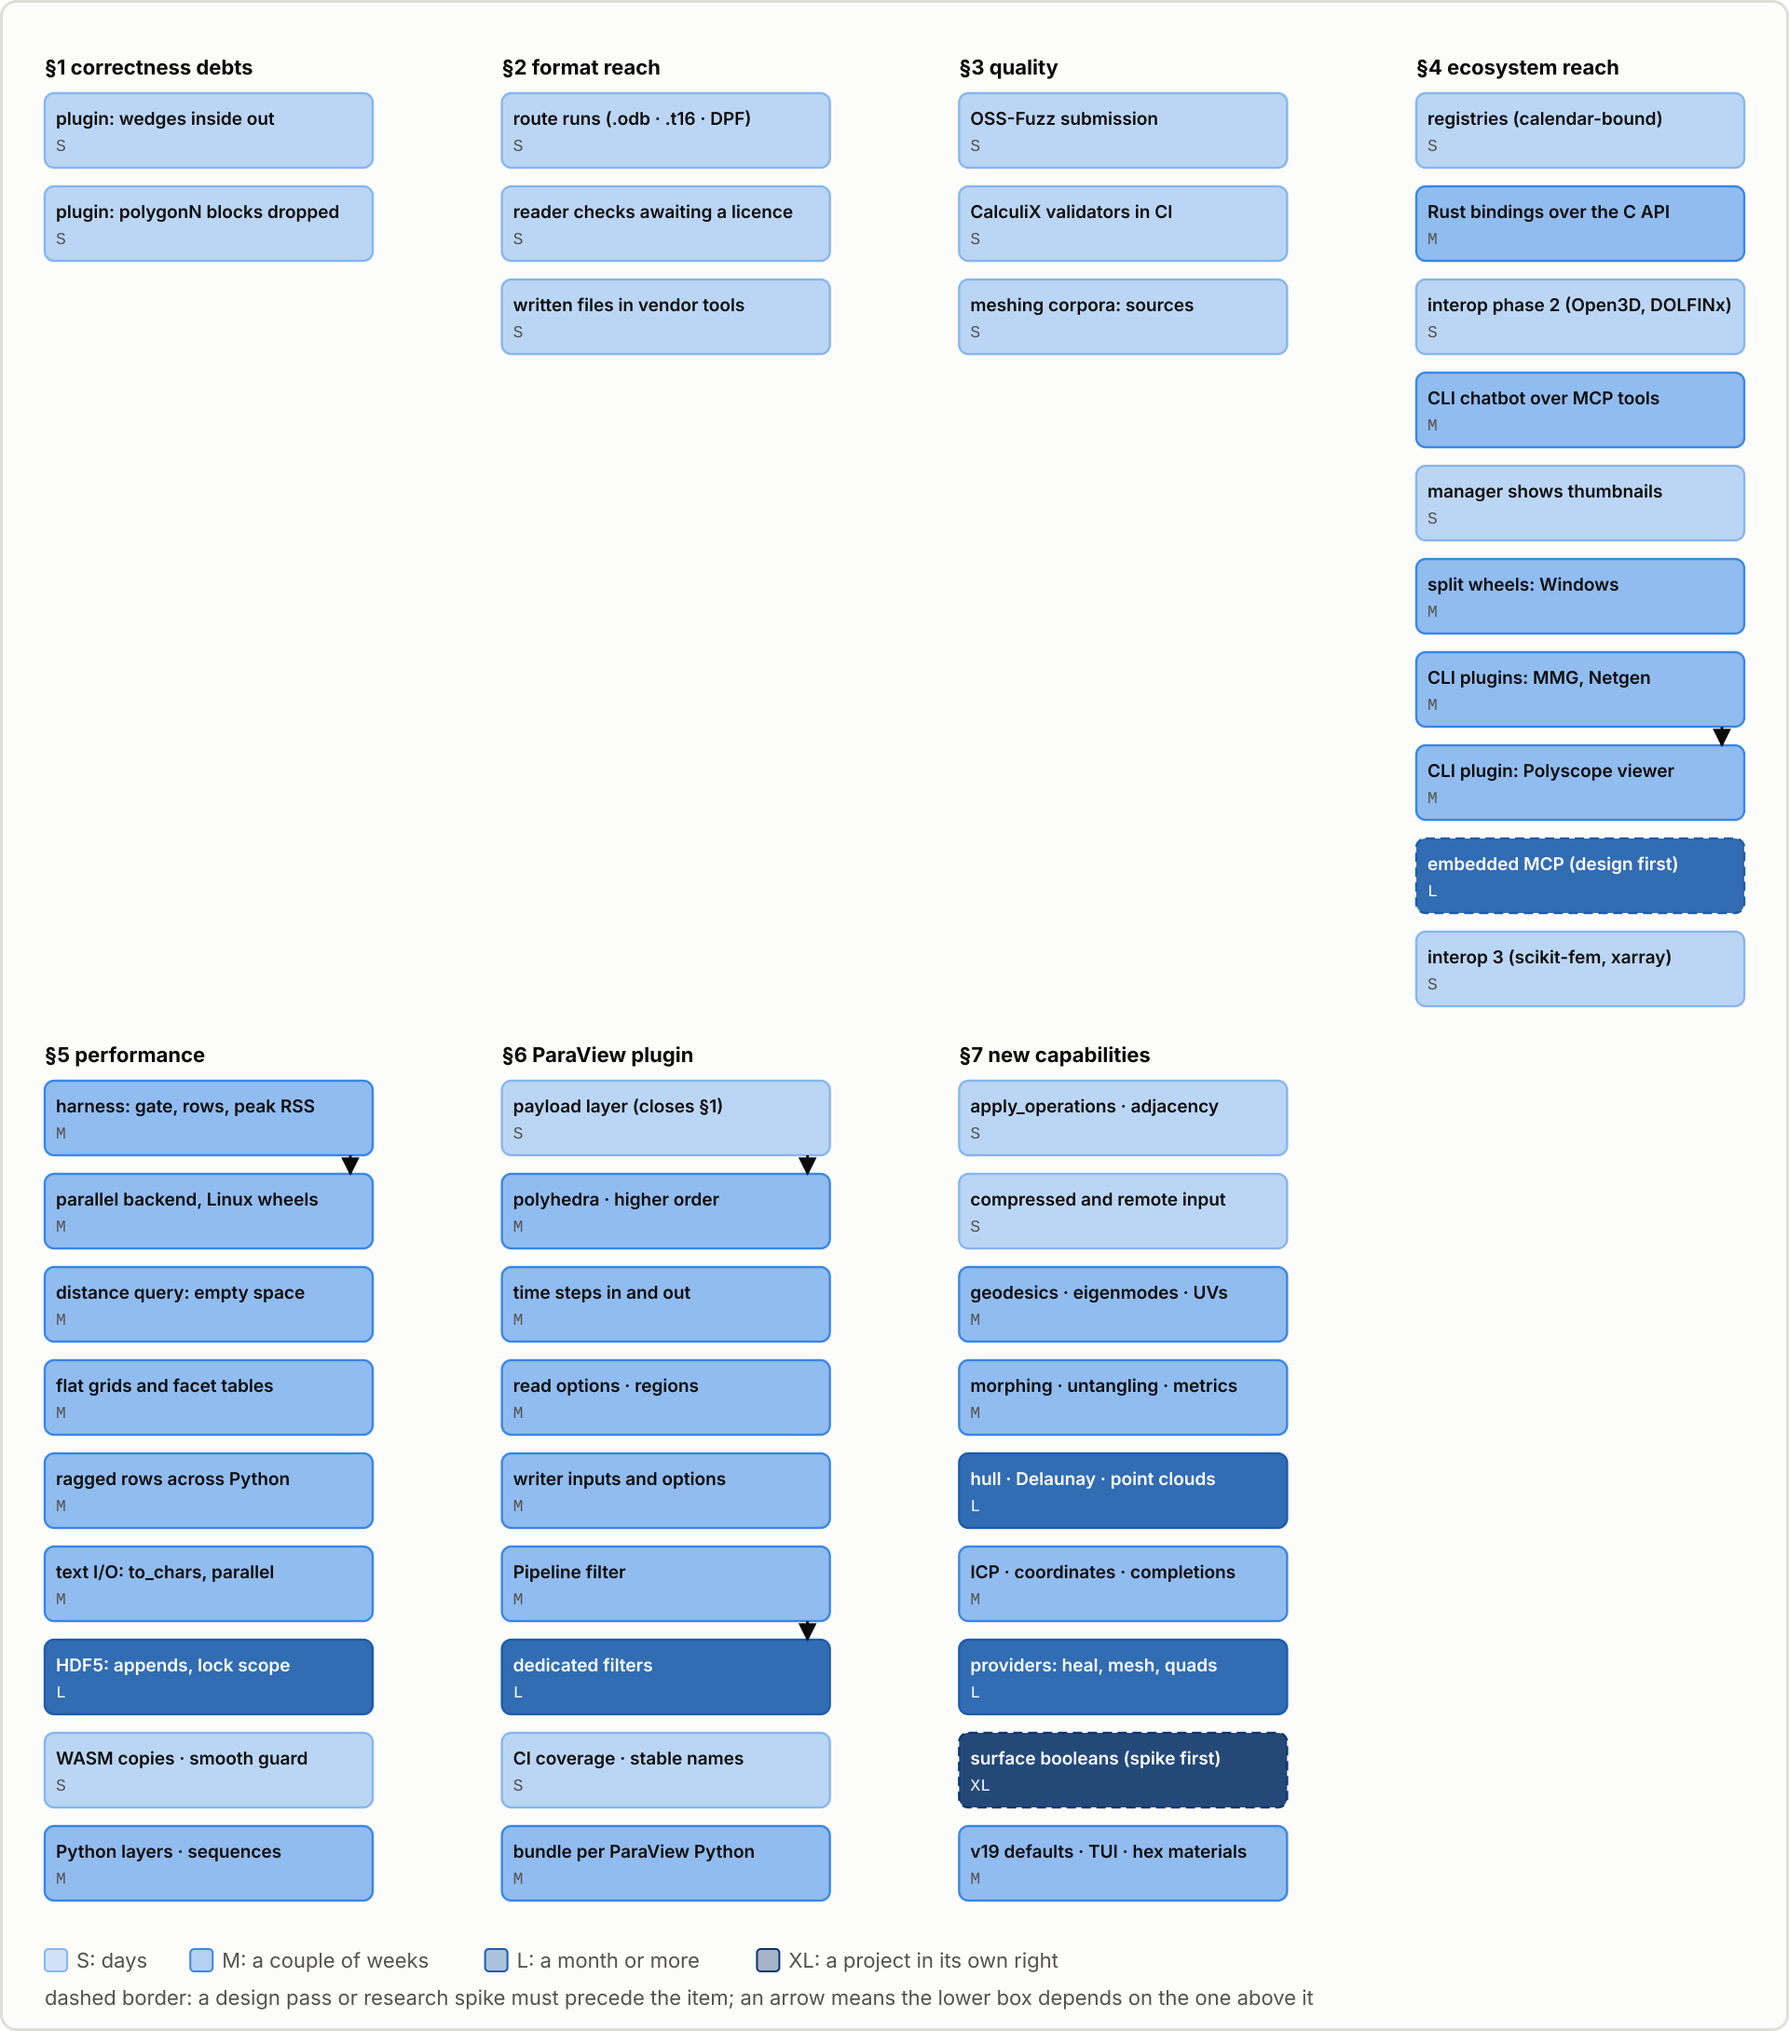
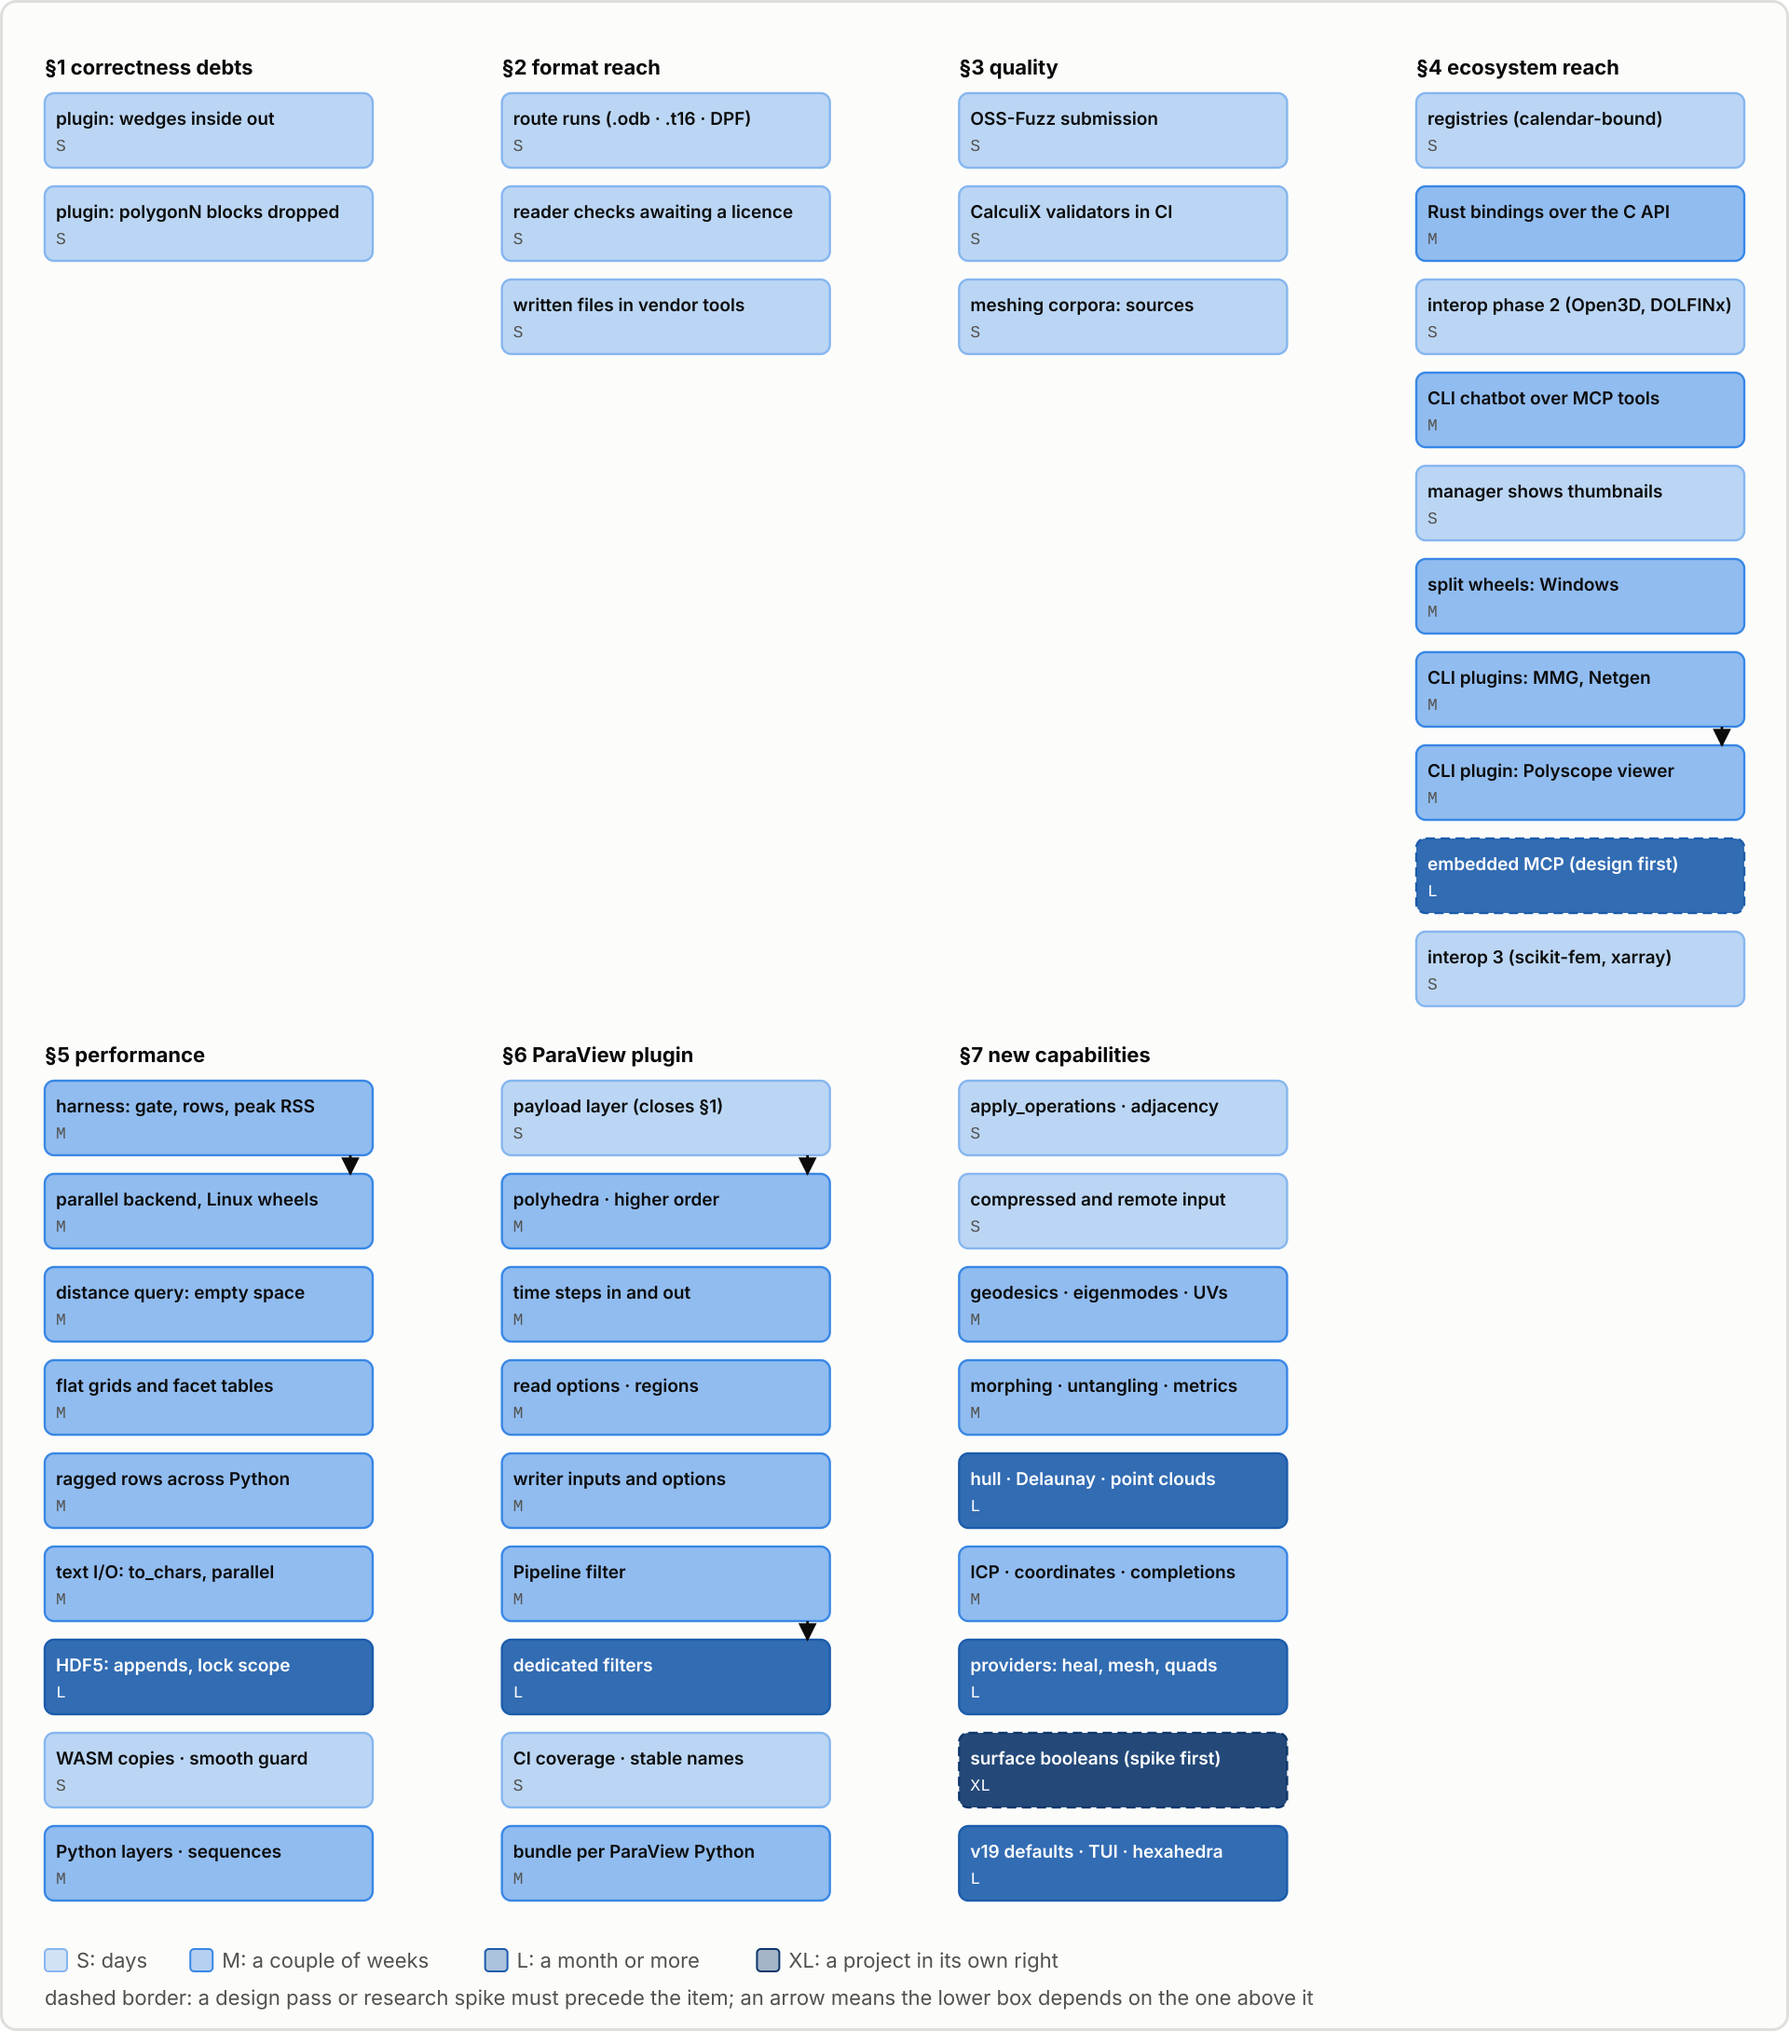
docs: hexahedra of the Happy Buddha and the XYZ RGB dragon; roadmap 7.9.4
Measured octree_mesh's hexahedral output on two harder scans from
alecjacobson/common-3d-test-models (decimated happy.obj and
xyzrgb_dragon.obj; min_size 0.6% and max_size 3.2% of the diagonal,
feature_angle 60).

Cells with a non-positive corner, uniform / graded:
- Happy Buddha: 2 063 / 1 659 -> 684 / 486
- XYZ RGB dragon: 4 819 / 4 385 -> 1 516 / 1 237
- With features off: 234 / 92 and 210 / 49

Most of the remainder comes from pinning short scan creases, the rest from
parts thinner than a cell. Roadmap 7.9.4 records the grid-side fix and its
probe; the map's section 7.9 box now reads "hexahedra".

Claude-Session: https://claude.ai/code/session_01DnyVZARLgoCJp27a7dYbKo

Changed region(s): [[0.5312, 0.8734, 0.7188, 0.9358]]

diff --git a/doc/diagrams/figures/flows.py b/doc/diagrams/figures/flows.py
@@ -1095,7 +1095,7 @@ def roadmap_map():
                 ("ICP · coordinates · completions", "M"),
                 ("providers: heal, mesh, quads", "L"),
                 ("surface booleans (spike first)", "XL"),
-                ("v19 defaults · TUI · hex materials", "M"),
+                ("v19 defaults · TUI · hexahedra", "L"),
             ],
             [],
         ),

diff --git a/doc/octree_mesh.md b/doc/octree_mesh.md
@@ -125,7 +125,7 @@ The default output is a conforming, graded tetrahedral mesh of the skin's inside
 | torus (1, 0.4), `min_size=0.05` | 5 440, 0.56, 0.0079 | 4 936, 0.52, 0.0082 |
 | Stanford bunny, `min_size=1.5`, `max_size=8`, `feature_angle=60` | 101 761, −0.006, 0.37 | 71 983, 0.28, 1.61 |
 
-No hexahedron of either has a non-positive volume. The savings grow with the room the tree has to coarsen: 55% on the cylinder, whose skin grades from its rims to its caps, 17% on the finely curved sphere and 9% on the thin torus, whose tube leaves little inside to coarsen. Pairing and the balance across corners refine more than the castellated output's tree, and the boundary layer is as fine as the uniform grid's. The graded smallest corner, 0.28, is the raw dual's own transition hexahedra. On the scanned bunny the graded output releases 11 feature nodes and keeps every corner at 0.28 or more; it misses one of the 28 chains, which the uniform grid recovers, hence its larger Hausdorff distance. The uniform output releases 17 and still keeps five pillow cells at the ear tips with a corner just below zero (down to −0.006; 41 cells down to −0.16 in 18.0.0), which the warnings report: there the scan turns tighter than a cell, and in our measurements no move of a single node, on the skin or a quarter of a cell off it, raised them, so the grid has to change there, not the fit. A coarser uniform bunny (`surface_size=3`) is in the same state, with one cell of non-positive volume (five in 18.0.0).
+No hexahedron of either has a non-positive volume. The savings grow with the room the tree has to coarsen: 55% on the cylinder, whose skin grades from its rims to its caps, 17% on the finely curved sphere and 9% on the thin torus, whose tube leaves little inside to coarsen. Pairing and the balance across corners refine more than the castellated output's tree, and the boundary layer is as fine as the uniform grid's. The graded smallest corner, 0.28, is the raw dual's own transition hexahedra. On the scanned bunny the graded output releases 11 feature nodes and keeps every corner at 0.28 or more; it misses one of the 28 chains, which the uniform grid recovers, hence its larger Hausdorff distance. The uniform output releases 17 and still keeps five pillow cells at the ear tips with a corner just below zero (down to −0.006; 41 cells down to −0.16 in 18.0.0), which the warnings report: there the scan turns tighter than a cell, and in our measurements no move of a single node, on the skin or a quarter of a cell off it, raised them, so the grid has to change there, not the fit. A coarser uniform bunny (`surface_size=3`) is in the same state, with one cell of non-positive volume (five in 18.0.0). Harder scans show the same limit at scale: the decimated Happy Buddha and XYZ RGB dragon of [common-3d-test-models](https://github.com/alecjacobson/common-3d-test-models), at `min_size` 0.6% and `max_size` 3.2% of the diagonal with `feature_angle=60`, keep 684 and 1 516 cells with a non-positive corner under the uniform grid (2 063 and 4 819 in 18.0.0) and 486 and 1 237 graded (1 659 and 4 385), mostly where hundreds of short scan creases are pinned; with features off, 234 and 210, and 92 and 49 ([roadmap 7.9.4](./roadmap.md#new-capabilities)).
 
 With features off (`feature_angle=0`, or `preserve_features=False` without `feature_size`), nothing holds the boundary to the skin's sharp edges: every corner stays positive, but the untangler rounds the edges (a unit box at `min_size = 0.05` is within 0.014 of its skin uniform and 0.037 graded, against 0.009 and 0.069 in 18.0.0).
 

diff --git a/doc/roadmap.md b/doc/roadmap.md
@@ -252,6 +252,7 @@ The sanitizer leg, the reader fuzzing, the format conformance matrix, the proper
   - **7.9.1 `model_tolerances` and `virtual_faces` on by default, in v19.** On the CAD corpus they lose no face and together mesh 55 more of its 16,503; they stay off because the released `mio_mesh_cad_surface_opts_ex` reads zero as off, and [mesh generation](./mesh_cad.md#measured-and-parked) defers them to the next major version, when the C struct can change. v18.0.0 was that version and did not take them, so they wait for v19, with the C struct change. **S**
   - **7.9.2 Caps on the terminal viewer's cut-away.** A cut-away shows the hollow back of the surface ([terminal rendering](./tui.md)); [`slice`](./slice.md) produces the cap polygons a real cap needs. **S–M**
   - **7.9.3 Materials in `octree_mesh`'s hexahedral output.** `conformity="cleaving"` meshes nested shells into conforming materials for tetrahedra only ([octree_mesh](./octree_mesh.md#the-tetrahedral-output)); `output="hex"` keeps every cell whose winding number exceeds the threshold as one block and carries no material. The shape: keep each grid cell with its winding level as its material, repair each interface's vertex stars as the outer boundary's are (`hex_make_manifold`), pillow every interface on both sides, and untangle with the interface nodes sliding on their shell, as cleaving holds them; the outputs then share `octree_mesh:material` and the `material_<k>` regions. Probe: a sphere of radius 0.5 inside a sphere of radius 1 meshed with `output="hex"` has no `octree_mesh:material` cell data and no `material_2` region, where `output="tet", conformity="cleaving"` has both. **M–L**
+  - **7.9.4 Hexahedra of scans with detail below a cell.** `octree_mesh`'s hexahedral fit leaves a few cells with a non-positive corner where a scanned skin is thinner or more creased than a cell, and no move of a node raises them ([octree_mesh](./octree_mesh.md#the-hexahedral-output)): five pillow cells at the Stanford bunny's ear tips (uniform grid, `min_size=1.5`, down to −0.006), and, at `min_size` 0.6% of the diagonal and `feature_angle=60`, 684 and 486 cells of the Happy Buddha (uniform, graded) and 1 516 and 1 237 of the XYZ RGB dragon (decimated models of [common-3d-test-models](https://github.com/alecjacobson/common-3d-test-models); 2 063, 1 659, 4 819 and 4 385 in 18.0.0). With features off the counts fall to 234, 92, 210 and 49, so most come from pinning the scans' hundreds of short creases and the rest from parts thinner than a cell. The fix changes the grid rather than the fit: refine the grid where the thickness or the spacing of feature corners is below a cell (the size field's `gap_cells` term, applied to the hexahedral grid), and treat a crease shorter than a cell as no feature. Probe: the gated `test_hexahedral_bunny[uniform]` (`MESHIOPLUSPLUS_OCTREE_MESH_BUNNY=1`) asserts the warning about a non-positive corner, which then no longer comes. **L**
 
 ---
 
